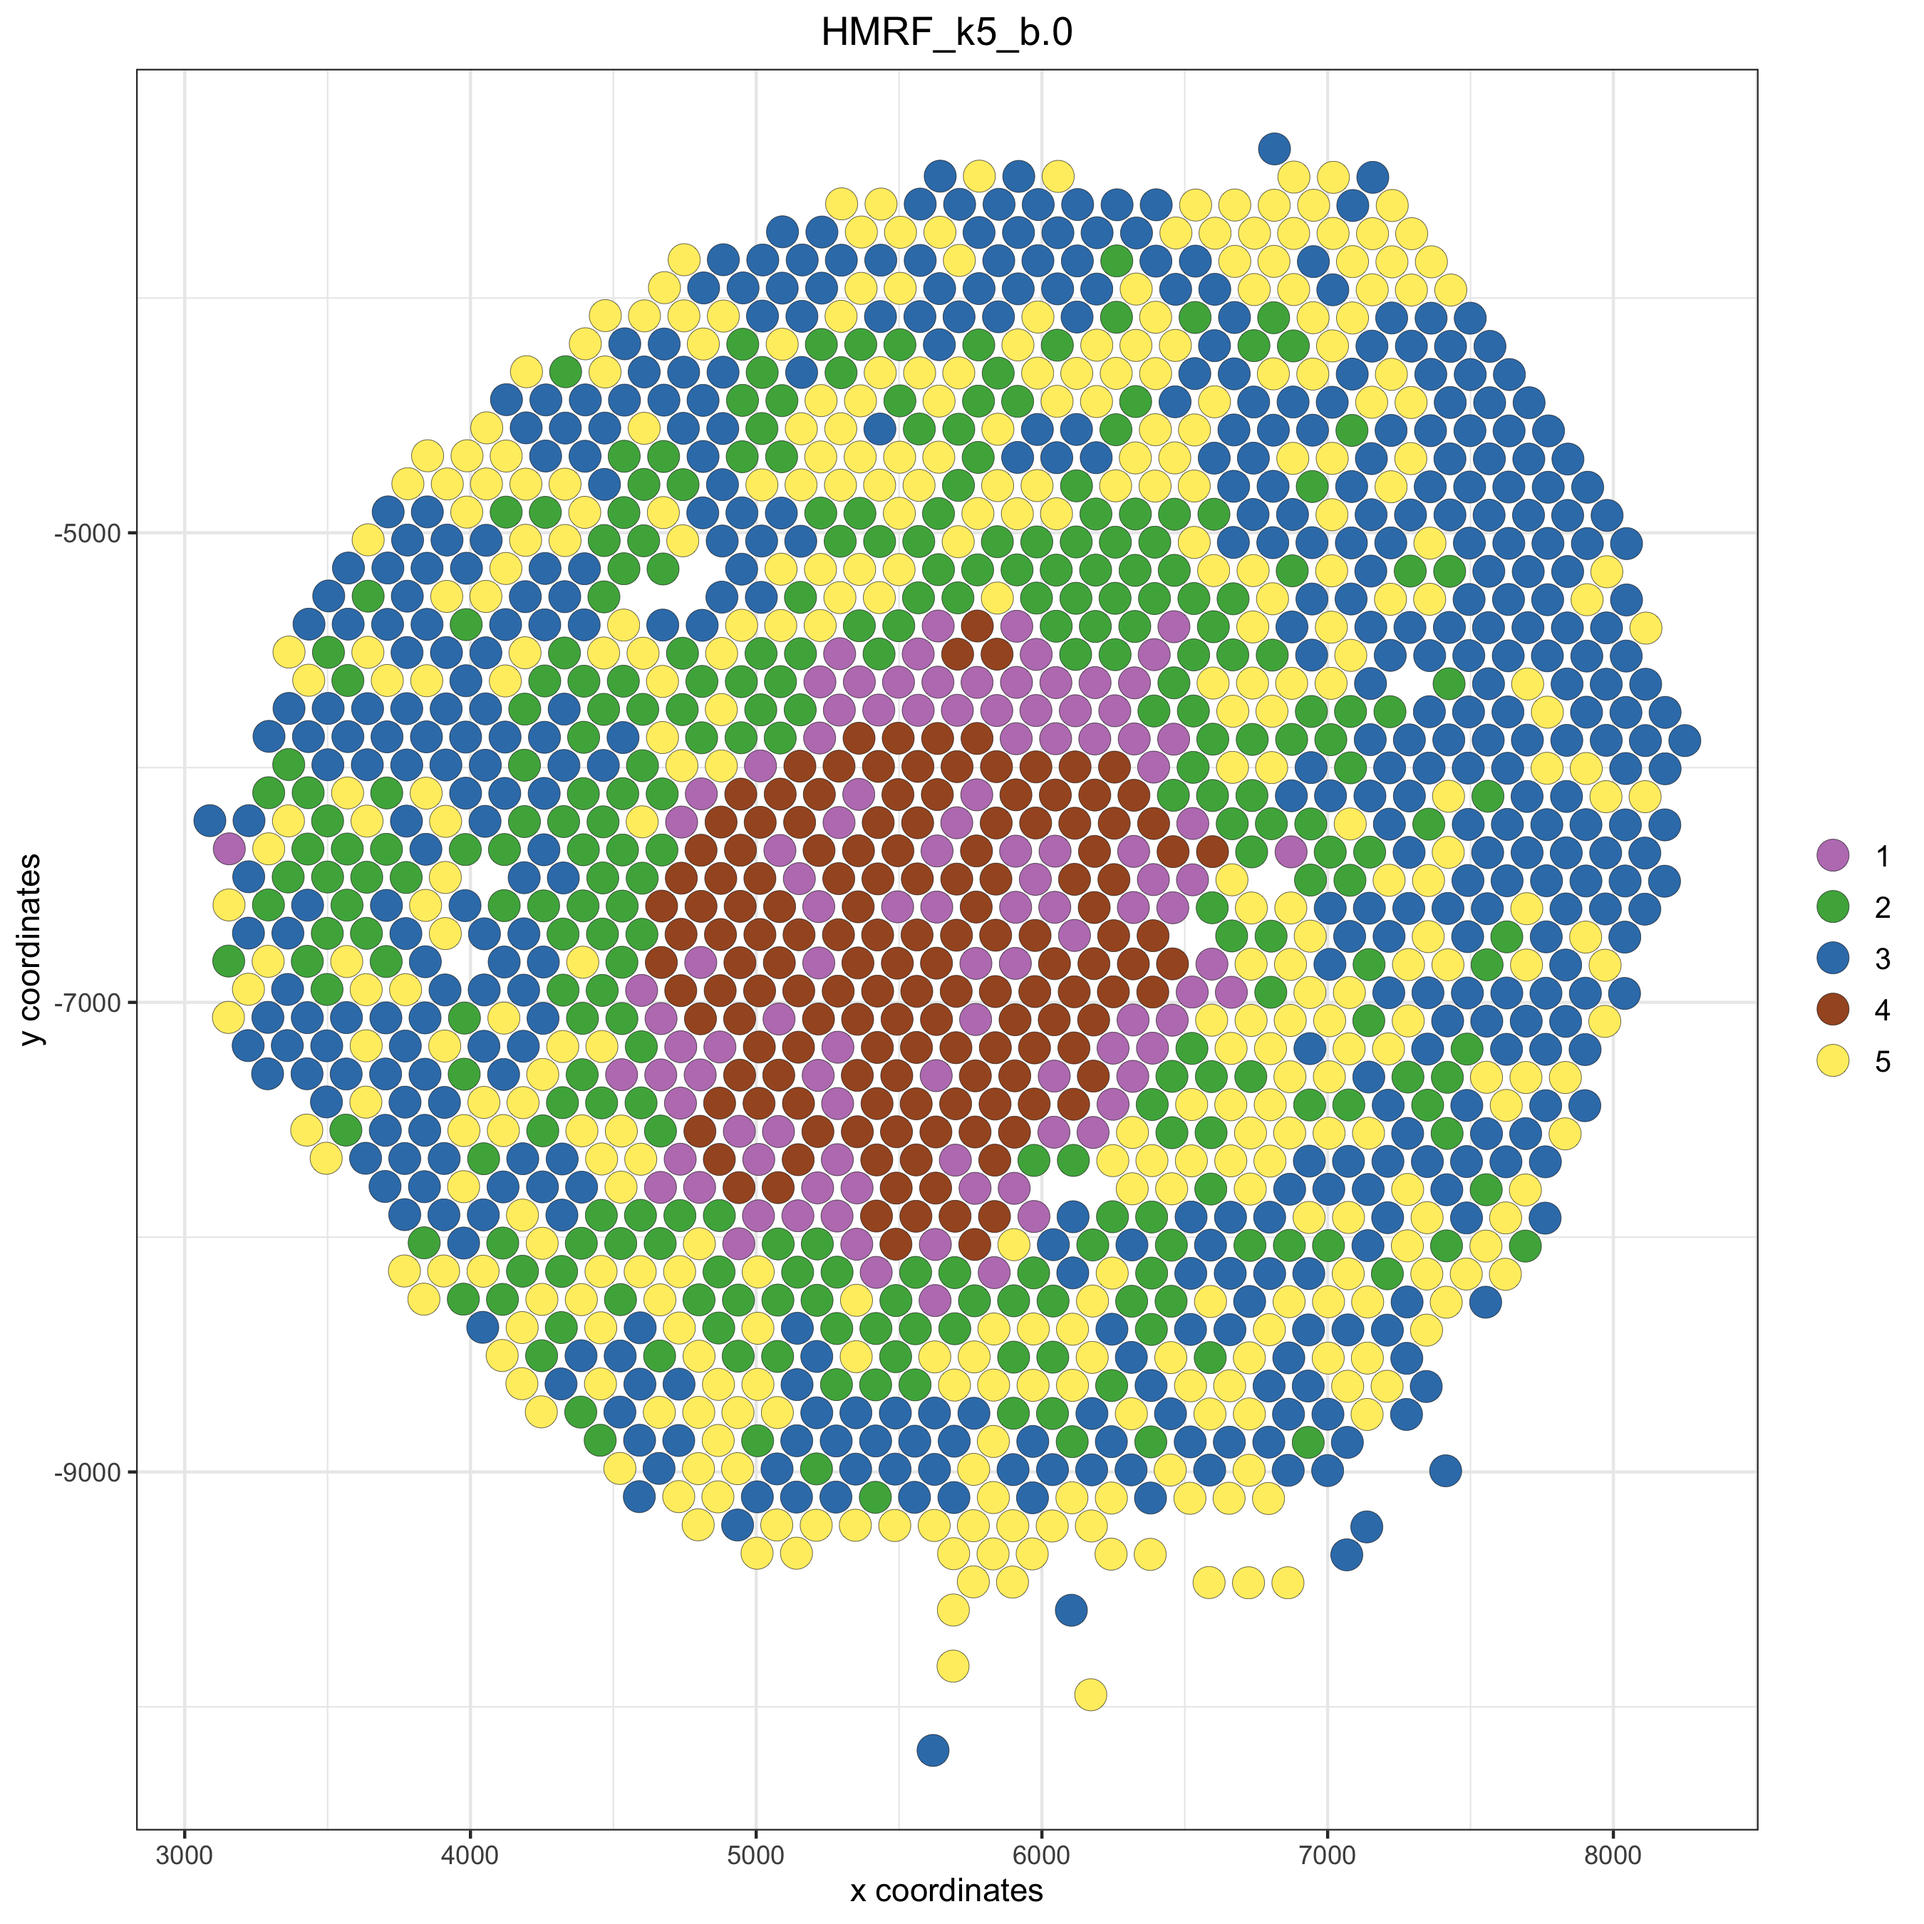
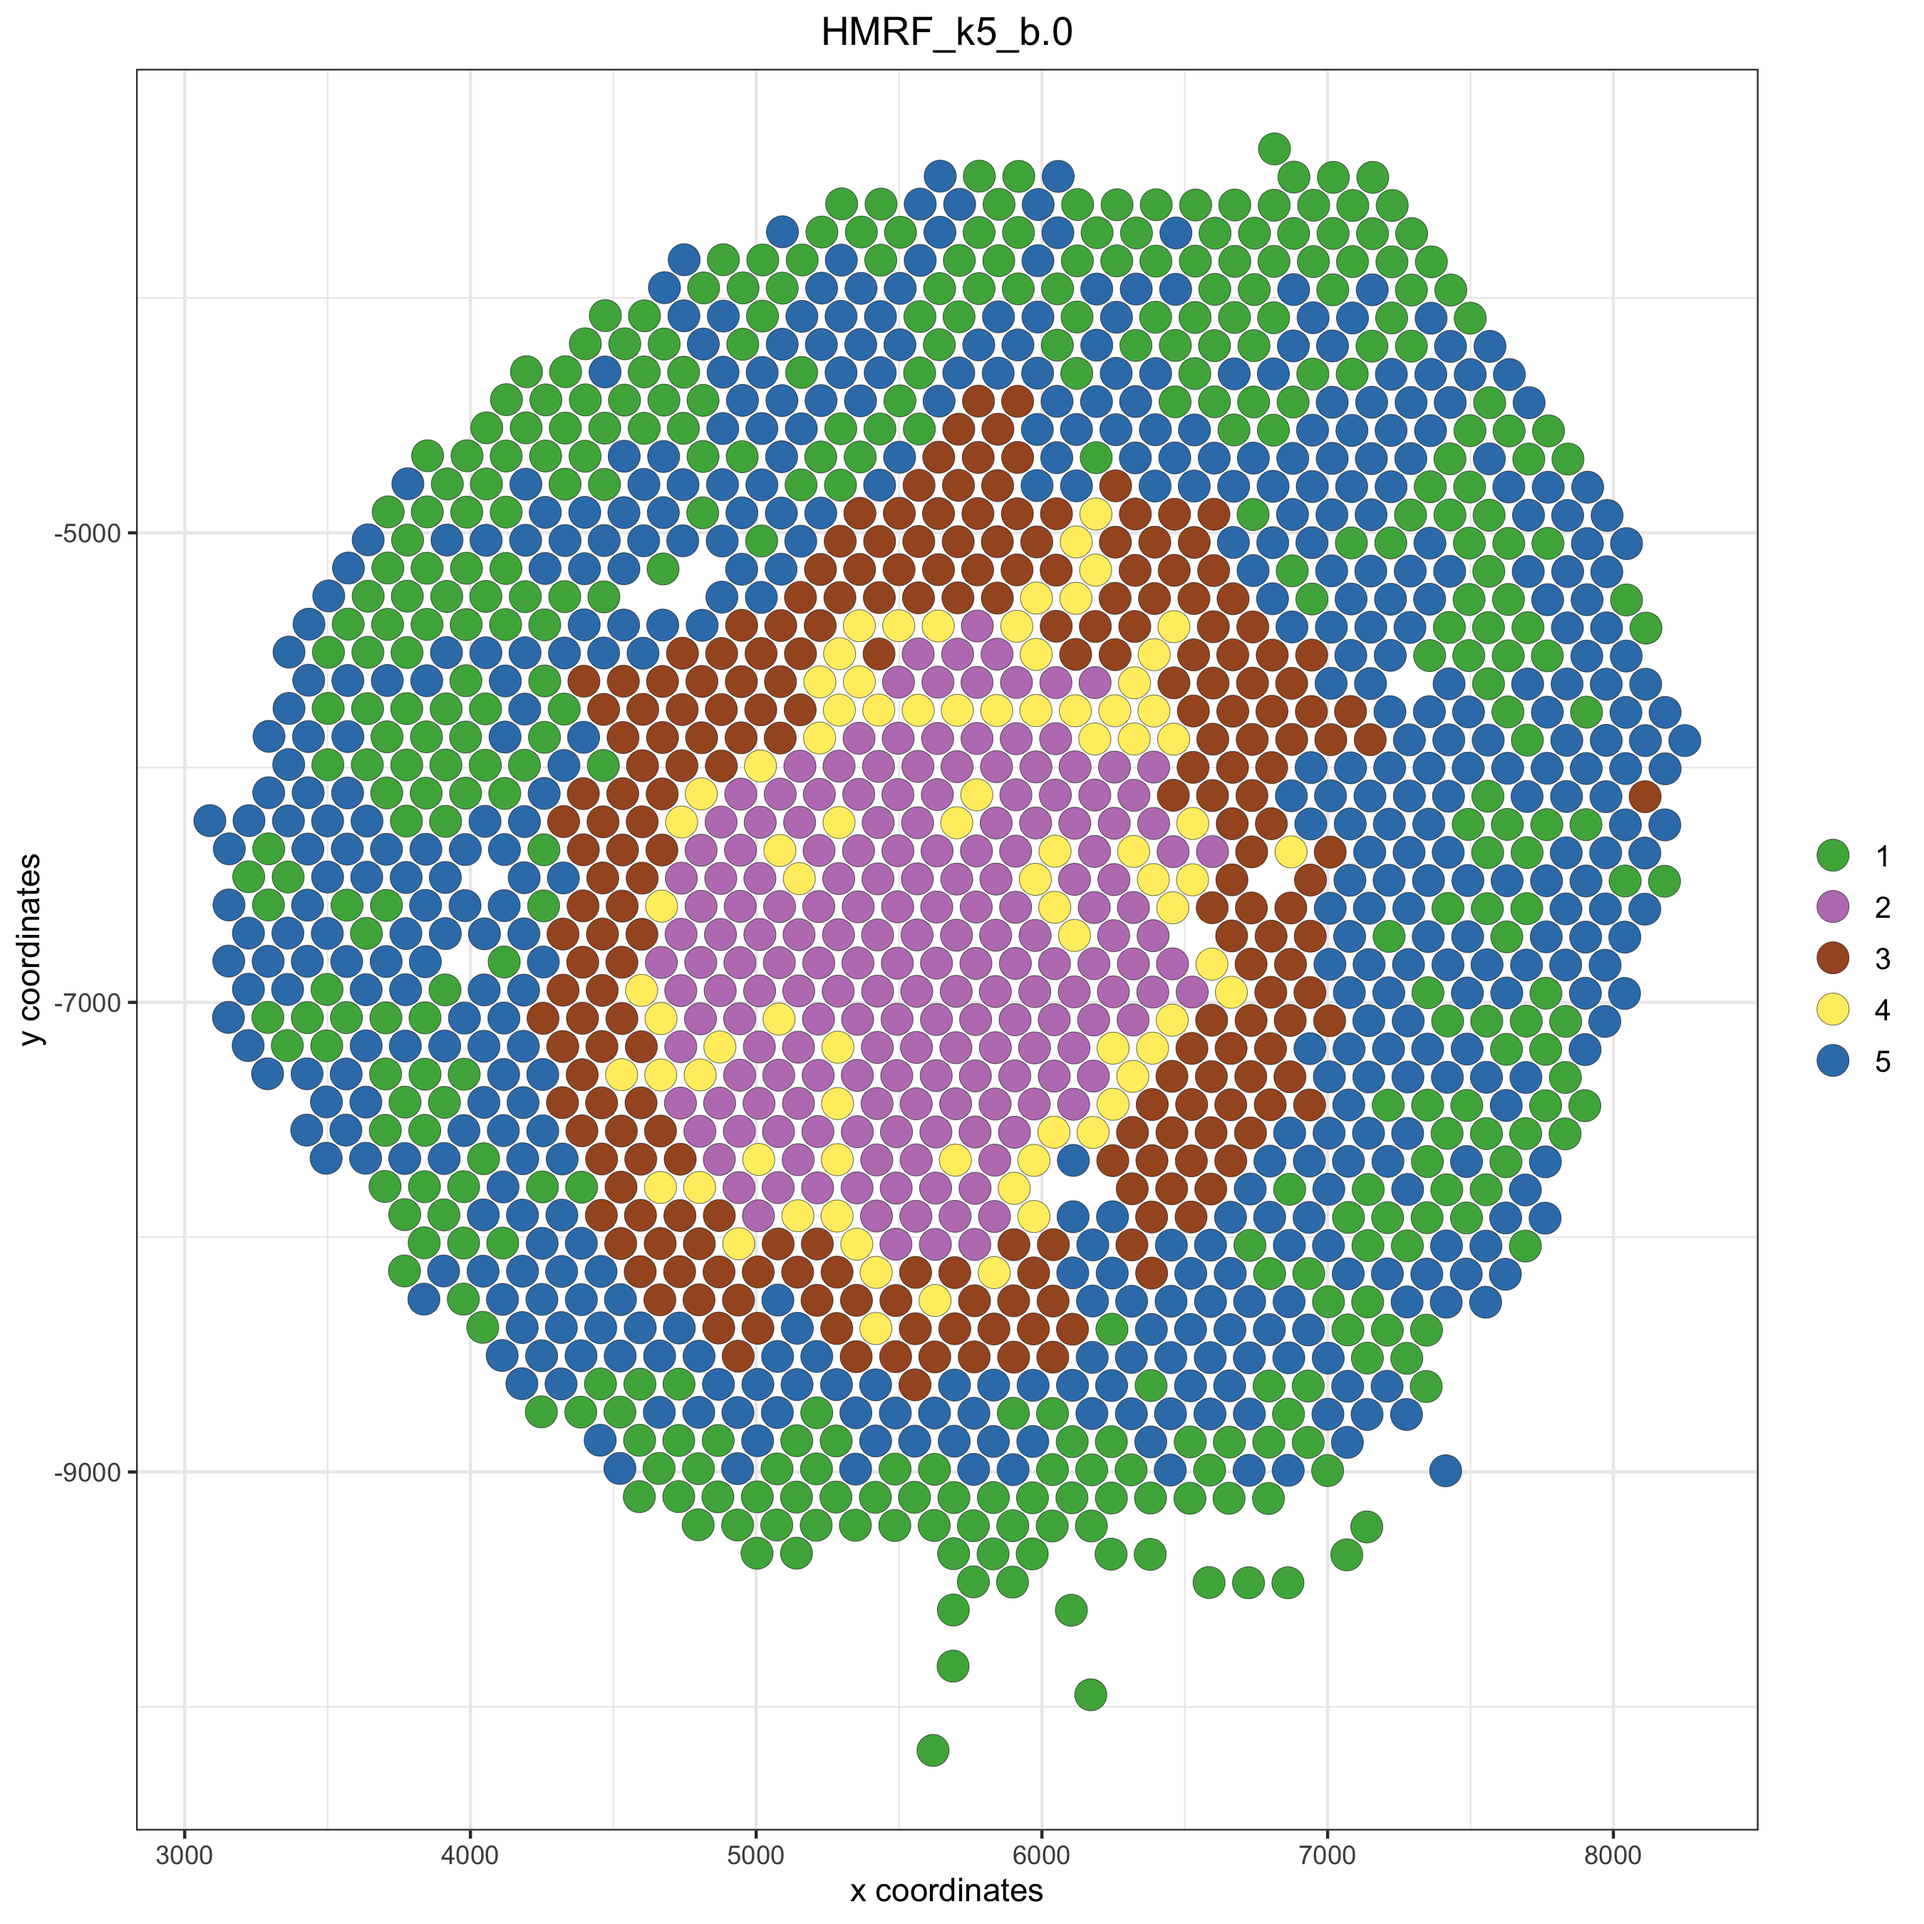
update examples

diff --git a/inst/examples/mouse_visium_kidney/mouse_visium_kidney_Giotto_v0.1.3.md b/inst/examples/mouse_visium_kidney/mouse_visium_kidney_Giotto_v0.1.3.md
@@ -1,4 +1,20 @@
 
+  - [Giotto global instructions](#giotto-global-instructions)
+  - [Data input](#data-input)
+  - [1. Create Giotto object & process
+    data](#create-giotto-object-process-data)
+  - [2. dimension reduction](#dimension-reduction)
+  - [3. cluster](#cluster)
+  - [4. co-visualize](#co-visualize)
+  - [5. differential expression](#differential-expression)
+  - [6. cell-type annotation](#cell-type-annotation)
+  - [7. spatial grid](#spatial-grid)
+  - [8. spatial network](#spatial-network)
+  - [9. spatial genes](#spatial-genes)
+  - [10. HMRF domains](#hmrf-domains)
+  - [11. Cell-cell preferential
+    proximity](#cell-cell-preferential-proximity)
+
 <!-- mouse_cortex_1_simple.md is generated from mouse_cortex_1_simple.Rmd Please edit that file -->
 
 ### Giotto global instructions
@@ -97,14 +113,29 @@ spatPlot2D(gobject = visium_kidney, cell_color = 'nr_genes', color_as_factor = F
 High resolution png from original tissue.  
 ![](./mouse_kidney_highres.png)
 
-Spots labeled according to whether they were covered by tissue or not:  
+Spots labeled according to whether they were covered by tissue or not:
+
+<div style="width:500px; height:500px">
+
 ![](./figures/1_in_tissue.png)
 
-Spots after subsetting and filtering:  
+</div>
+
+Spots after subsetting and filtering:
+
+<div style="width:500px; height:500px">
+
 ![](./figures/1_spatial_locations.png)
 
-Overlay with number of genes detected per spot:  
+</div>
+
+Overlay with number of genes detected per spot:
+
+<div style="width:500px; height:500px">
+
 ![](./figures/1_nr_genes.png)
+
+</div>
 
 </details>
 
@@ -489,15 +520,28 @@ view_pattern_genes = selectPatternGenes(pattern_osm, return_top_selection = TRUE
 ![](./figures/7_grid.png)
 
 Dimension 1: ![](./figures/7_pattern1_PCA.png)
+
+<div style="width:500px; height:500px">
+
 ![](./figures/7_pattern1_genes.png)
+
+</div>
 
 Dimension 2: ![](./figures/7_pattern2_PCA.png)
 
+<div style="width:500px; height:500px">
+
 ![](./figures/7_pattern2_genes.png)
+
+</div>
 
 Dimension 2: ![](./figures/7_pattern3_PCA.png)
 
+<div style="width:500px; height:500px">
+
 ![](./figures/7_pattern3_genes.png)
+
+</div>
 
 -----
 
@@ -614,8 +658,8 @@ visium_kidney = addHMRF(gobject = visium_kidney,
 spatPlot(gobject = visium_kidney, cell_color = 'HMRF_k5_b.0', point_size = 5,
          save_param = c(save_name = 'HMRF_k5_b.0', save_folder = '11_HMRF'))
 
-spatPlot(gobject = visium_kidney, cell_color = 'HMRF_k5_b.5', point_size = 5,
-         save_param = c(save_name = 'HMRF_k5_b.20', save_folder = '11_HMRF'))
+spatPlot(gobject = visium_kidney, cell_color = 'HMRF_k5_b.2', point_size = 5,
+         save_param = c(save_name = 'HMRF_k5_b.2', save_folder = '11_HMRF'))
 ```
 
 HMRF:  
@@ -623,7 +667,7 @@ b = 0
 ![](./figures/10_HMRF_k5_b.0.png)
 
 b = 5  
-![](./figures/10_HMRF_k5_b.20.png)
+![](./figures/10_HMRF_k5_b.2.png)
 
 -----
 

diff --git a/inst/examples/mouse_visium_brain/mouse_visium_brain_Giotto_v0.1.3.md b/inst/examples/mouse_visium_brain/mouse_visium_brain_Giotto_v0.1.3.md
@@ -1,4 +1,20 @@
 
+  - [Giotto global instructions](#giotto-global-instructions)
+  - [Data input](#data-input)
+  - [1. Create Giotto object & process
+    data](#create-giotto-object-process-data)
+  - [2. dimension reduction](#dimension-reduction)
+  - [3. cluster](#cluster)
+  - [4. co-visualize](#co-visualize)
+  - [5. differential expression](#differential-expression)
+  - [6. cell-type annotation](#cell-type-annotation)
+  - [7. spatial grid](#spatial-grid)
+  - [8. spatial network](#spatial-network)
+  - [9. spatial genes](#spatial-genes)
+  - [10. HMRF domains](#hmrf-domains)
+  - [11. Cell-cell preferential
+    proximity](#cell-cell-preferential-proximity)
+
 <!-- mouse_cortex_1_simple.md is generated from mouse_cortex_1_simple.Rmd Please edit that file -->
 
 ### Giotto global instructions
